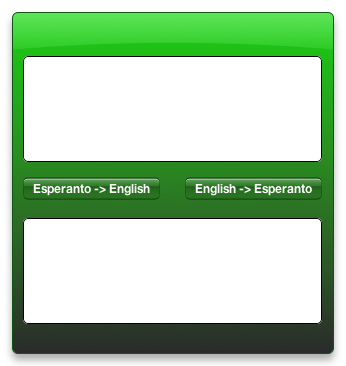
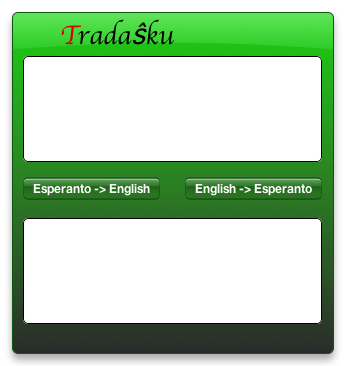
basic eo to en works now

Changed region(s): [[0.1734, 0.0301, 0.5202, 0.1202]]

diff --git a/Tradasxku.dcproj/project.wdgt/main.html b/Tradasxku.dcproj/project.wdgt/main.html
@@ -12,14 +12,15 @@
     <script type="text/javascript" src="Parts/Text.js" charset="utf-8"></script>
     <script type="text/javascript" src="Parts/InfoButton.js" charset="utf-8"></script>
     <script type="text/javascript" src="Parts/GlassButton.js" charset="utf-8"></script>
+    <script type="text/javascript" src="jquery-1.3.2.js" charset="utf-8"></script>
     <script type="text/javascript" src="main.js" charset="utf-8"></script>
 </head>
 <body onload="load();" apple-part="com.apple.Dashcode.part.StackLayout">
     <div id="front">
         <img id="frontImg" src="Images/front.png" alt="" apple-locked="true" apple-part="com.apple.Dashcode.part.frontimage" apple-style="image-theme: 1; image-shape: 3; image-opacity: 1.00; image-top-color: 0.314732581,0.825375736,0.104905777,1; image-bottom-color: 0.116612963,0.119565189,0.119565189,1; image-radius: 6,6,6,6; image-border: 1; image-border-color: 0,0.303573608,0.0226274785,1; image-border-width: 1; shine-on: 1; shine-strength: 0.10; shine-alpha-level: 0.10; shine-height: 0.90; glass-arc-height: 0.04; embossed-on: 0; embossed-depth: 1; embossed-shadow: 0.68; embossed-highlight: 0.3; shadow-include-shadow: 1; shadow-offset: -1.00,-6.00; shadow-color: 0,0,0,0.3333;">
         <div class="apple-no-children" id="info" apple-part="com.apple.Dashcode.part.infobutton" apple-default-image-visibility="hidden"></div>
-        <div apple-part="com.apple.Dashcode.part.text" class="apple-text apple-no-children" apple-default-image-visibility="hidden" apple-text-overflow="ellipsis" id="title_first_letter"></div>
-        <div apple-part="com.apple.Dashcode.part.text" class="apple-text apple-no-children" apple-default-image-visibility="hidden" apple-text-overflow="ellipsis" id="title_remainder"></div>
+        <div apple-part="com.apple.Dashcode.part.text" class="apple-text apple-no-children" apple-text-overflow="ellipsis" id="title_first_letter"></div>
+        <div apple-part="com.apple.Dashcode.part.text" class="apple-text apple-no-children" apple-text-overflow="ellipsis" id="title_remainder"></div>
         <textarea apple-part="com.apple.Dashcode.part.textarea" id="eo_input" onblur="input_onblur(event)" onfocus="input_onfocus(event)" onkeypress="input_onkeypress(event)"></textarea>
         <textarea apple-part="com.apple.Dashcode.part.textarea" id="en_input" onblur="input_onblur(event)" onfocus="input_onfocus(event)" onkeypress="input_onkeypress(event)"></textarea>
         <div apple-part="com.apple.Dashcode.part.glassbutton" class="apple-no-children" id="to_en"></div>

diff --git a/Tradasxku.dcproj/project.wdgt/main.js b/Tradasxku.dcproj/project.wdgt/main.js
@@ -15,7 +15,7 @@ var eo_hint = "Esperanto ĉi tie...";
 function load()
 {
     dashcode.setupParts();
-    
+
     var eo = document.getElementById('eo_input');
     var en = document.getElementById('en_input');
     
@@ -128,13 +128,20 @@ function do_translate(srcLangCode) {
     else input = escape(input);
     
     var extractTranslation = function(responseXml) {
-        return responseXml;
+        var bodyBeginPos = responseXml.indexOf('<body');
+        bodyBeginPos = responseXml.indexOf('>', bodyBeginPos) + 1;
+        var bodyEndPos = responseXml.indexOf('</body>');
+        var content = responseXml.substring(bodyBeginPos, bodyEndPos);
+        
+        // try with jquery selectors on the content
+        var translation = $('div', '<div id="traduku_wrapper">' + content + '</div>').html();
+        return translation;
     };
     
     var url = 'http://www.traduku.net/cgi-bin/traduku?' + command + '&t=' + input;
     var xmlRequest = new XMLHttpRequest();
     xmlRequest.open("GET", url, true);
-
+    
     xmlRequest.onreadystatechange = function () {
         if (xmlRequest.readyState == 4) {
             if(xmlRequest.status == 200) {
